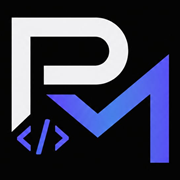
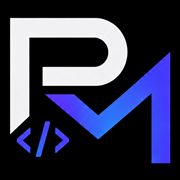
feat: atualiza para o novo logotipo Pedro Matheus
Substitui o logotipo e regera todos os assets a partir do PNG novo, que
tem melhor qualidade que o JPEG anterior. O wordmark mudou de
pedromatheus.dev para Pedro Matheus / Programmer e Developer, entao a
marca no topo acompanha e o token .brand__tld foi removido junto.

Paleta reextraida dos pixels: fundo agora e preto puro #000000, branco
#f2f2f3 e azul da marca #3c48fc, com gradiente de #4f3afc a #3467f9. O
azul novo e mais saturado que o anterior.

Isso derruba o contraste do azul como texto de 4.08:1 para 3.34:1, entao
--a1-text sobe de #7b86f6 para #767ffd, voltando a 5.90:1. Em
compensacao o botao primario melhora: branco sobre a marca passa de 4.87
para 5.96. Reauditadas 32 combinacoes nos dois temas; todas passam AA.

Reduz o monograma de 512 para 192px. Ele e exibido a 36px e pesava 201
KB, mais que HTML, CSS e JS somados; agora sao 33 KB.

Passa todo o Cache-Control para no-cache, inclusive imagens. Cachear
imagem por dias pressupoe nome versionado, que um site sem build nao
tem: trocar o logotipo deixaria visitantes recorrentes vendo o antigo
por ate 24h, o que aconteceu durante este proprio trabalho.

diff --git a/styles.css b/styles.css
@@ -46,8 +46,8 @@
 }
 
 /* --- Tema escuro (padrão) ---
-   Cores extraídas dos pixels do logotipo: fundo #040404, branco #eff0f2 e
-   azul da marca #5460f0, cujo gradiente vai de #4878f0 a #6054fc. */
+   Cores extraídas dos pixels do logotipo: fundo #000000, branco #f2f2f3 e
+   azul da marca #3c48fc, cujo gradiente vai de #4f3afc a #3467f9. */
 :root,
 [data-theme="dark"] {
   --bg:        #08090d;
@@ -55,18 +55,18 @@
   --surface:   #10131a;
   --surface-2: #171b24;
 
-  --ink:       #eff0f2;   /* o branco do logotipo */
+  --ink:       #f2f2f3;   /* o branco do logotipo */
   --ink-2:     #a4aab8;
   --ink-3:     #7b8293;
 
   --line:      #212530;
   --line-2:    #2c313e;
 
-  --a1:        #5460f0;   /* azul da marca — preenchimentos, botões, ícones */
-  --a1-soft:   rgba(84, 96, 240, 0.16);
-  /* O azul da marca rende 4.08:1 sobre este fundo, abaixo do mínimo AA de 4.5.
-     Para TEXTO usamos uma variação clareada da mesma cor: 6.24:1. */
-  --a1-text:   #7b86f6;
+  --a1:        #3c48fc;   /* azul da marca — preenchimentos, botões, ícones */
+  --a1-soft:   rgba(60, 72, 252, 0.16);
+  /* O azul da marca rende 3.34:1 sobre este fundo, abaixo do mínimo AA de 4.5.
+     Para TEXTO usamos uma variação clareada da mesma cor: 5.90:1. */
+  --a1-text:   #767ffd;
   --a2:        #3ec2e8;   /* ciano — secundário, separa front de back */
   --a2-soft:   rgba(62, 194, 232, 0.14);
   --a3:        #e8a33d;   /* âmbar — contraponto quente ao azul */
@@ -84,7 +84,7 @@
   --c-key:  #b09cf8;
   --c-type: #3ec2e8;
   --c-str:  #9fcf8e;
-  --c-var:  #7d86f5;
+  --c-var:  #767ffd;
   --c-def:  #b7becb;
 
   color-scheme: dark;
@@ -106,9 +106,9 @@
   --line:      #e0e3ec;
   --line-2:    #c8cddb;
 
-  --a1:        #3a44cc;   /* azul da marca, escurecido para o papel */
-  --a1-soft:   rgba(58, 68, 204, 0.10);
-  --a1-text:   #3a44cc;   /* no claro o próprio acento já rende 6.81:1 */
+  --a1:        #333dcf;   /* azul da marca, escurecido para o papel */
+  --a1-soft:   rgba(51, 61, 207, 0.10);
+  --a1-text:   #333dcf;   /* no claro o próprio acento já rende 7.24:1 */
   --a2:        #0c6f85;
   --a2-soft:   rgba(12, 111, 133, 0.10);
   --a3:        #8c5608;
@@ -125,7 +125,7 @@
   --c-key:  #6b34c9;
   --c-type: #0e6f85;
   --c-str:  #43701f;
-  --c-var:  #3a44cc;
+  --c-var:  #333dcf;
   --c-def:  #39404b;
 
   color-scheme: light;
@@ -397,7 +397,6 @@ p { text-wrap: pretty; }
   font-weight: 600;
   letter-spacing: -0.015em;
 }
-.brand__tld { color: var(--a1-text); }
 .brand__text span {
   font-family: var(--font-mono);
   font-size: 0.6875rem;

diff --git a/server.js b/server.js
@@ -70,18 +70,15 @@ function resolveSafePath(requestUrl) {
   return absolute;
 }
 
-// Imagens e fontes podem ser cacheadas com folga: mudam raramente e, quando
-// mudam, normalmente ganham outro nome de arquivo.
-const CACHE_LONGO = new Set([
-  '.png', '.jpg', '.jpeg', '.webp', '.avif', '.gif', '.ico', '.woff', '.woff2',
-]);
-
-function cacheControlFor(ext) {
-  // HTML, CSS e JS mudam a cada deploy e são interdependentes: se o HTML for
-  // atualizado mas o CSS vier do cache, a página quebra. "no-cache" nao
-  // significa "nao cacheie" — significa "cacheie, mas revalide sempre".
-  // Com o ETag, a revalidacao custa um 304 vazio.
-  if (CACHE_LONGO.has(ext)) return 'public, max-age=86400';
+// "no-cache" nao significa "nao cacheie" — significa "cacheie, mas revalide
+// sempre". Com o ETag, a revalidacao custa um 304 vazio.
+//
+// Vale para TUDO, inclusive imagens. O padrao seria cachear imagem por dias,
+// mas isso pressupoe nomes versionados (logo.a1b2c3.png), que um site sem
+// build nao tem. Sem isso, trocar o logotipo deixaria visitantes recorrentes
+// vendo o antigo ate o cache expirar. A unica imagem carregada pela pagina
+// tem 33 KB: pagar um 304 por visita e mais barato que servir conteudo velho.
+function cacheControlFor() {
   return 'no-cache';
 }
 
@@ -135,7 +132,7 @@ async function handle(req, res) {
   res.writeHead(200, {
     'Content-Type': MIME[ext] || 'application/octet-stream',
     'Content-Length': stats.size,
-    'Cache-Control': cacheControlFor(ext),
+    'Cache-Control': cacheControlFor(),
     ETag: etag,
     'X-Content-Type-Options': 'nosniff',
     'X-Frame-Options': 'SAMEORIGIN',

diff --git a/index.html b/index.html
@@ -16,7 +16,7 @@
 <meta property="og:image" content="og-image.png">
 <meta property="og:image:width" content="1200">
 <meta property="og:image:height" content="630">
-<meta property="og:image:alt" content="Logotipo pedromatheus.dev — monograma PM com o símbolo de código">
+<meta property="og:image:alt" content="Logotipo de Pedro Matheus — monograma PM com o símbolo de código">
 <meta name="twitter:card" content="summary_large_image">
 
 <link rel="canonical" href="https://exemplo.com/">
@@ -40,10 +40,10 @@
 <header class="nav" id="nav">
   <div class="shell nav__inner">
     <a class="brand" href="#inicio" aria-label="Pedro Matheus — início">
-      <img class="brand__mark" src="logo-mark.png" alt="" width="512" height="512" decoding="async">
+      <img class="brand__mark" src="logo-mark.png" alt="" width="192" height="192" decoding="async">
       <span class="brand__text">
-        <strong>pedromatheus<span class="brand__tld">.dev</span></strong>
-        <span>Dev &amp; Eng. de Software</span>
+        <strong>Pedro Matheus</strong>
+        <span>Programmer &amp; Developer</span>
       </span>
     </a>
 
@@ -586,7 +586,7 @@
 <footer class="footer">
   <div class="shell footer__inner">
     <div class="footer__brand">
-      <img class="brand__mark" src="logo-mark.png" alt="" width="512" height="512" loading="lazy" decoding="async">
+      <img class="brand__mark" src="logo-mark.png" alt="" width="192" height="192" loading="lazy" decoding="async">
       <div>
         <strong>Pedro Matheus da Silva Machado</strong>
         <span>Desenvolvimento web &amp; engenharia de software</span>

diff --git a/README.md b/README.md
@@ -121,15 +121,21 @@ var DESTINATARIO = 'pedromatheusdasilva123@gmail.com';
 
 | Arquivo | Tamanho | Onde é usado |
 |---------|---------|--------------|
-| `logo-mark.png` | 512×512 | Monograma no topo e no rodapé |
-| `logo.png` | 969×624 | Logotipo completo, para reuso |
+| `logo-mark.png` | 192×192 | Monograma no topo e no rodapé |
+| `logo.png` | 986×766 | Logotipo completo, para reuso |
 | `og-image.png` | 1200×630 | Prévia ao compartilhar o link |
 | `apple-touch-icon.png` | 180×180 | Ícone ao salvar na tela inicial |
 | `favicon.png` | 64×64 | Ícone da aba |
+| `logo-original.png` | 1254×1254 | Arquivo-fonte, não usado pela página |
 
-Todos foram recortados do arquivo original. Para regerá-los depois de alterar o
-logotipo, os recortes usados foram: monograma em `x 354, y 309, 542×507` e
-logotipo completo em `x 183, y 343, 909×564`.
+O monograma é exibido a 36px e tem 192px justamente para não pesar: uma versão
+512px ficava com 201 KB, mais que HTML, CSS e JS somados.
+
+Todos foram recortados de `logo-original.png` (1254×1254). Para regerá-los
+depois de alterar o logotipo, os recortes usados foram: monograma em
+`x 320, y 223, 622×571` e logotipo completo em `x 137, y 227, 986×766`.
+O recorte do monograma para propositalmente antes do texto, que começa em
+`y ≈ 800`.
 
 O monograma mantém o fundo escuro do logotipo **nos dois temas**. Isso é
 intencional: o "P" é branco e sumiria sobre o papel claro. No tema claro ele
@@ -141,22 +147,22 @@ As cores vieram dos pixels do próprio logotipo:
 
 | Origem | Valor |
 |--------|-------|
-| Fundo do logotipo | `#040404` |
-| Branco do logotipo | `#eff0f2` |
-| Azul da marca | `#5460f0` |
-| Gradiente do "M" | `#4878f0` → `#6054fc` |
+| Fundo do logotipo | `#000000` |
+| Branco do logotipo | `#f2f2f3` |
+| Azul da marca | `#3c48fc` |
+| Gradiente do "M" | `#4f3afc` → `#3467f9` |
 
 Os tokens ficam no topo do `styles.css`:
 
 ```css
-[data-theme="dark"]  { --a1: #5460f0; --a1-text: #7b86f6; }
-[data-theme="light"] { --a1: #3a44cc; --a1-text: #3a44cc; }
+[data-theme="dark"]  { --a1: #3c48fc; --a1-text: #767ffd; }
+[data-theme="light"] { --a1: #333dcf; --a1-text: #333dcf; }
 ```
 
-**Por que dois tokens de azul.** O azul da marca rende apenas 4.08:1 sobre o
+**Por que dois tokens de azul.** O azul da marca rende apenas 3.34:1 sobre o
 fundo escuro, abaixo do mínimo de 4.5:1 da WCAG AA. `--a1` é usado em
 preenchimentos (botões, ícones, o ponto das etapas), onde a exigência é menor;
-`--a1-text` é uma variação clareada da mesma cor, com 6.24:1, usada em todo
+`--a1-text` é uma variação clareada da mesma cor, com 5.90:1, usada em todo
 texto. Se trocar um, ajuste o outro e remeça o contraste.
 
 A paleta tem três eixos: `--a1` (azul da marca), `--a2` (ciano) e `--a3`
@@ -166,6 +172,22 @@ achatar em uma cor só.
 O tema inicial segue a preferência do sistema operacional e é persistido em
 `localStorage` sob a chave `pm-theme`. A meta tag `theme-color` lê `--bg` do
 CSS em tempo de execução, então não precisa ser atualizada à mão.
+
+---
+
+## Cache
+
+O `server.js` envia `Cache-Control: no-cache` em **tudo**, inclusive imagens.
+Isso não desliga o cache: manda o navegador revalidar, e o ETag responde com um
+304 vazio quando nada mudou.
+
+O padrão da indústria seria cachear imagem por dias, mas isso pressupõe nomes
+versionados (`logo.a1b2c3.png`), que um site sem build não tem. Sem isso, trocar
+o logotipo deixaria quem já visitou vendo o antigo até o cache expirar.
+
+Se publicar em GitHub Pages, Netlify ou Cloudflare, quem manda é a política
+**deles**, não este arquivo. Nessas plataformas, a forma confiável de forçar
+atualização de uma imagem é renomear o arquivo.
 
 ---
 
